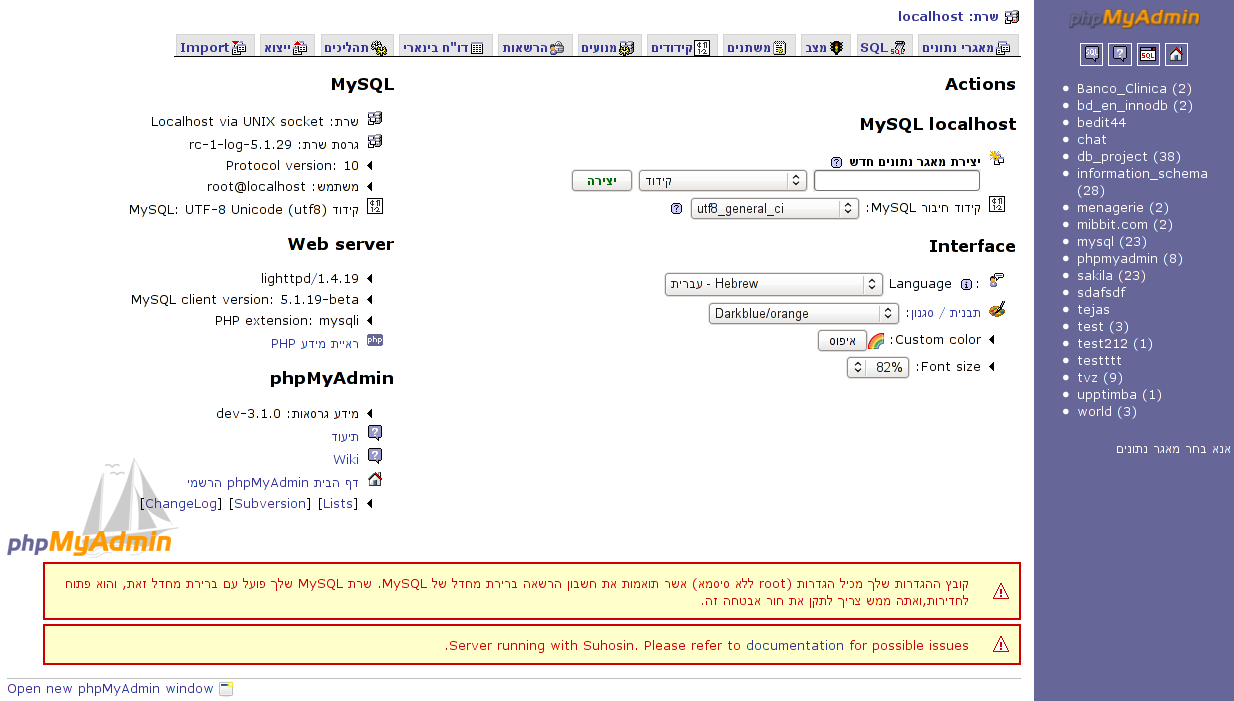
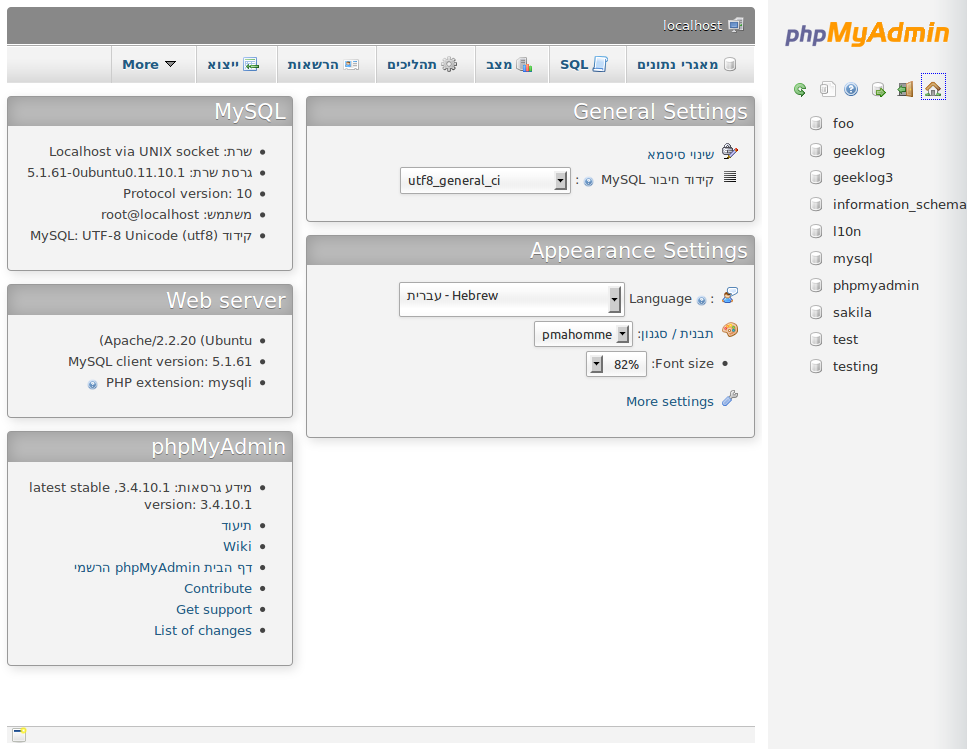
Updated screenshots to current stable 3.4.10.1

diff --git a/data/screenshots.py b/data/screenshots.py
@@ -22,7 +22,7 @@
 # List of screenshots
 SCREENSHOTS = [
     {'name': 'main-page', 'title': 'Main page screenshot'},
-    {'name': 'main-page-rtl', 'title': 'RTL language with Darkblue/orange theme'},
+    {'name': 'main-page-rtl', 'title': 'Main page with an RTL language'},
     {'name': 'designer', 'title': 'Database designer'},
     {'name': 'sql-export', 'title': 'SQL export options'},
     {'name': 'privileges', 'title': 'Setting per column privileges for table'},
